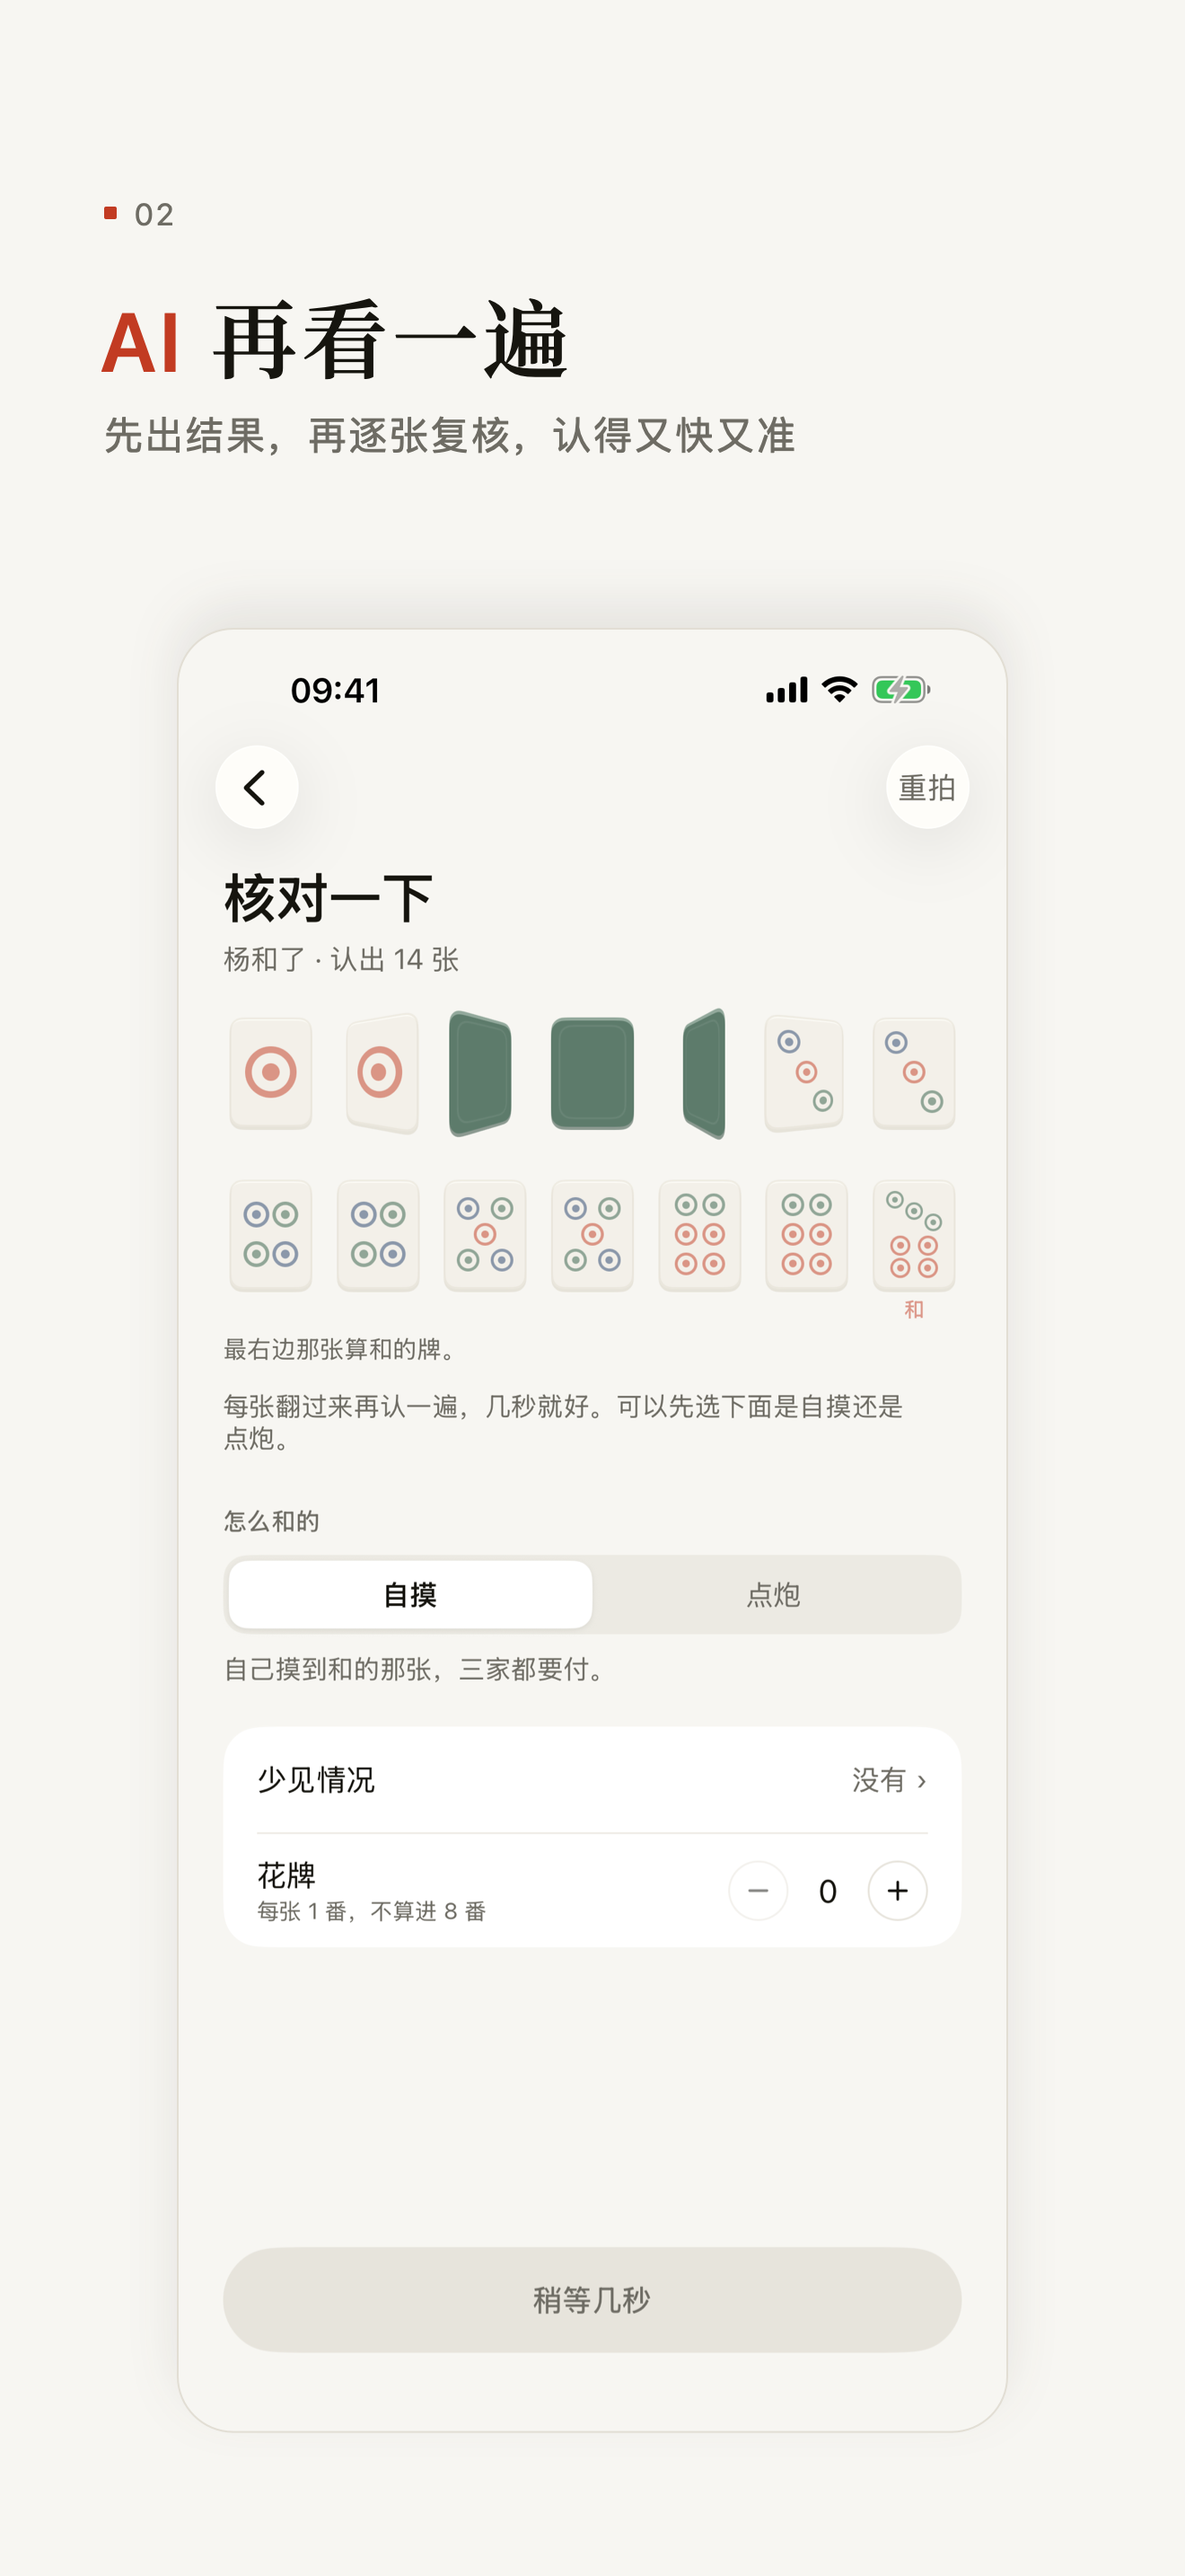
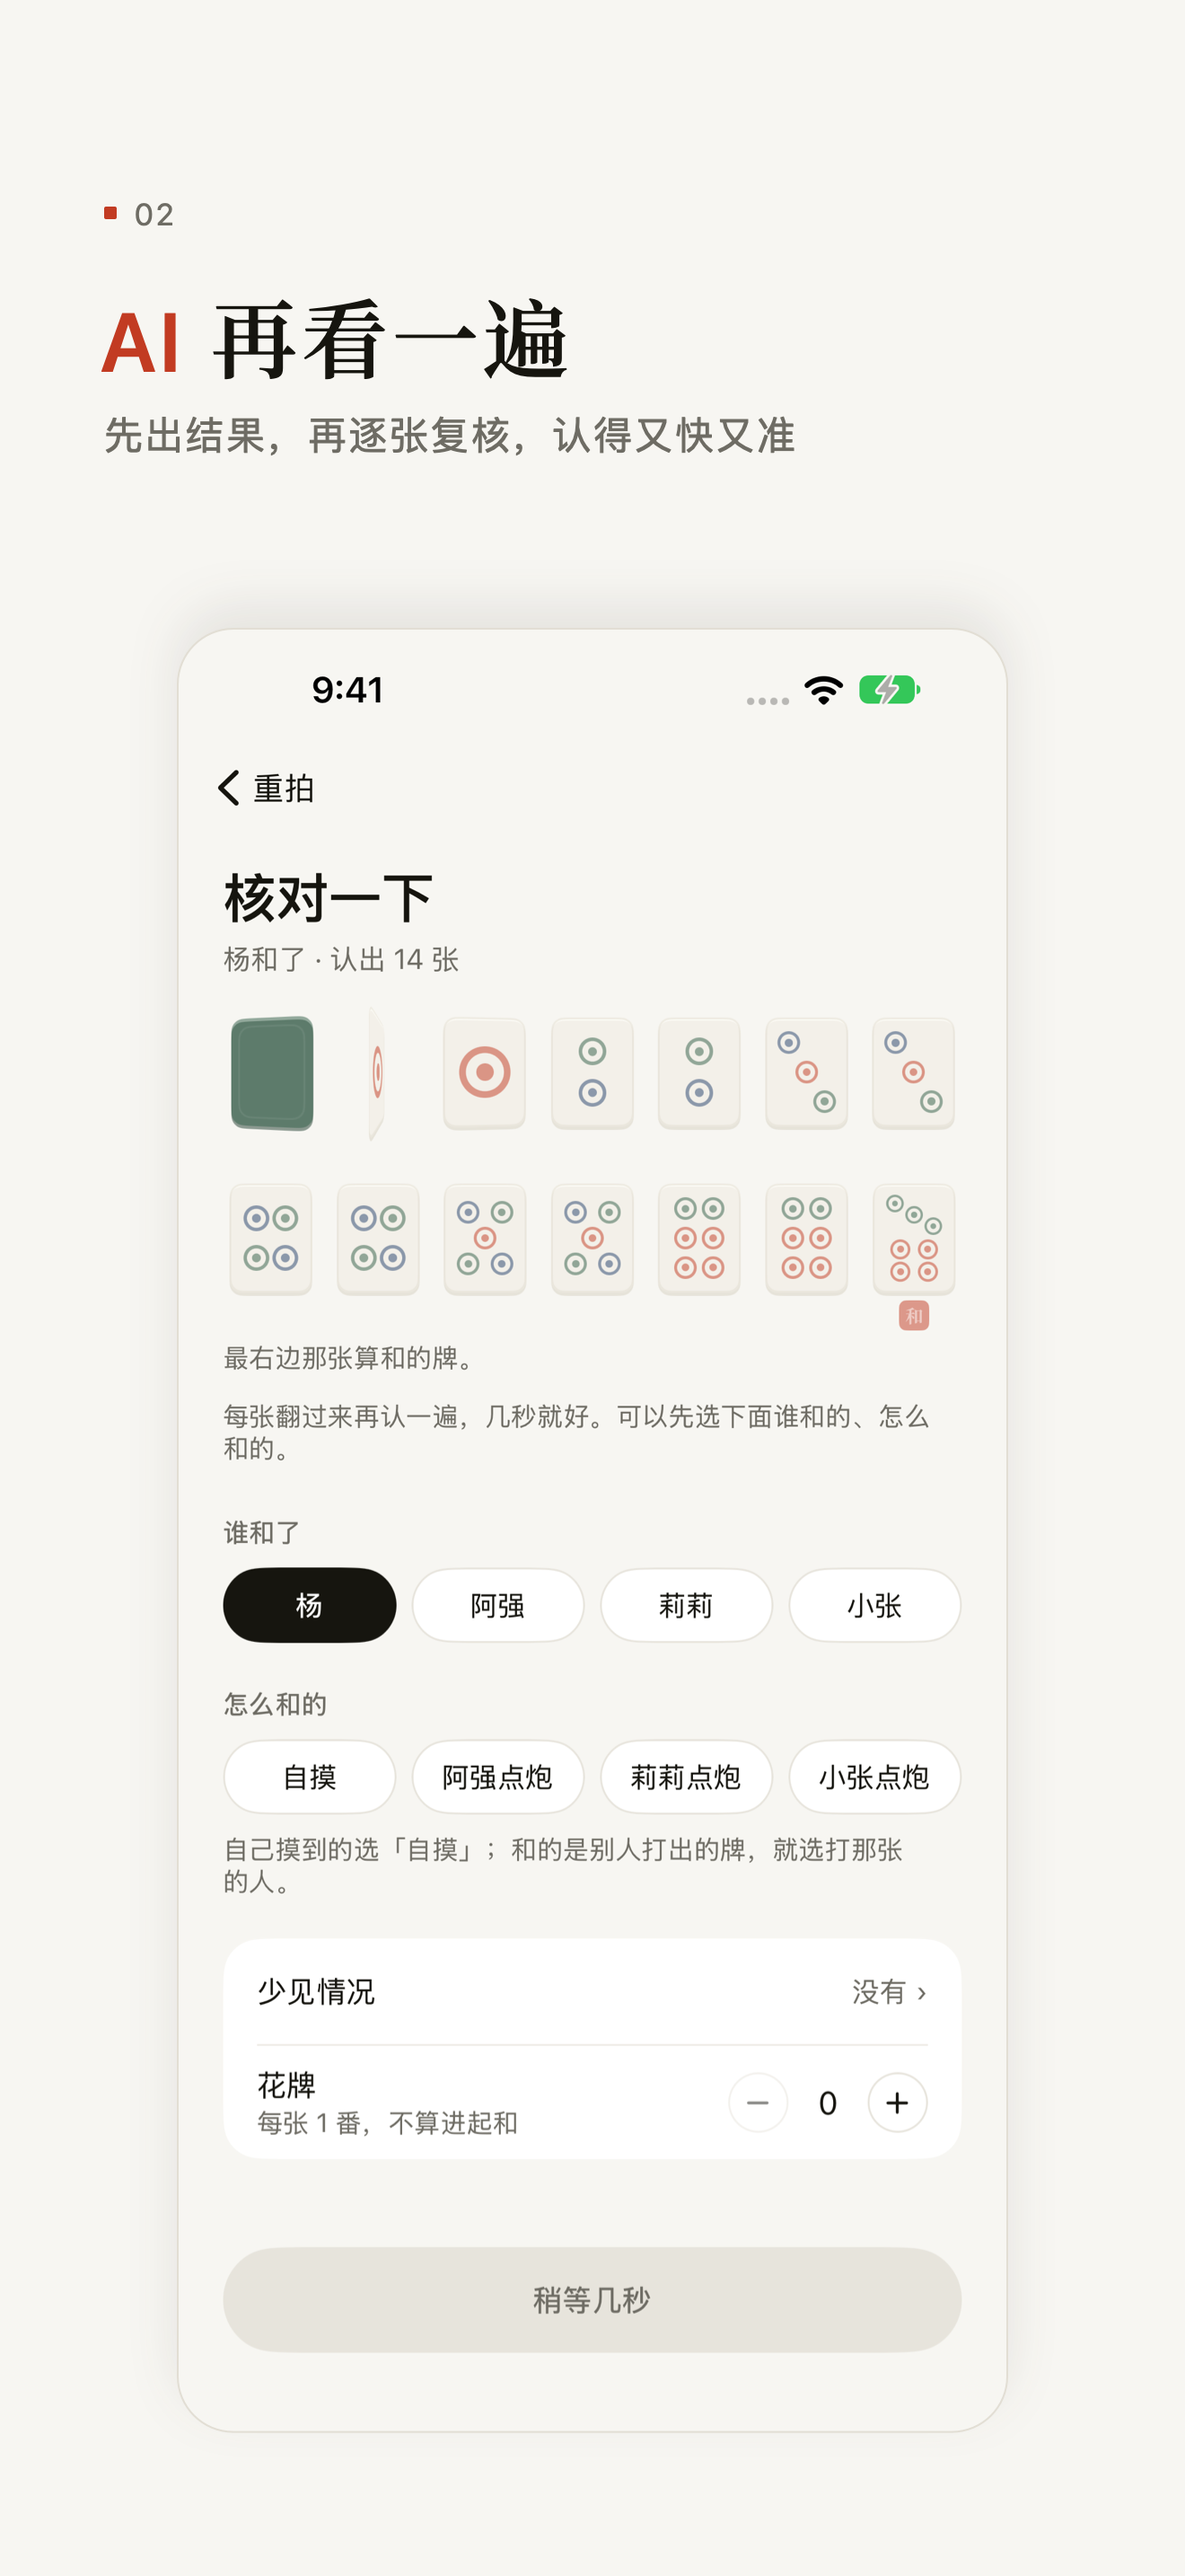
1.0.3（build 5）：新截图、空首页也能填邀请码、新版说明 (#34)
* 界面第一批：不替人选谁和了和自摸，核对页能看照片，邀请码提示挪到核对页，删除报错不用朱红

- 拍照页四个名字不再默认亮庄家；核对页加「谁和了」一排，拍照页点过的亮着、可改
- 「怎么和的」改成一排：自摸 / 某某点炮，都不预选；没选时底部按钮写原因
- 核对页标题右边放照片小图，点开全屏可放大拖动
- 拍照页不再提邀请码；离线认牌这手动手改过、牌对了以后，核对页提一行
- 删掉这一局、填码出错、改分填错改用墨色
- docs/user-flow.md 跟着改

Claude-Session: https://claude.ai/code/session_01Sm2sfkRi3hnSogq4ZtLyWH

* 界面第二批：「我」和第一局的庄分开、首页链接收进「更多」、结算写钱、老用户收起说明、字号调大、触感、和印章

- 牌局加 me（旧存档按第一个人），开局页第一行是你，另点第一局谁坐庄；牌桌图和首页历史按 me 显示
- 首页三行灰链接收进右上「更多」，历史行写名字加输赢
- 结算页名次大字写钱，1 分不是 1 元时旁边写分
- 记过 3 手和牌后收起核对页、牌桌、首页的教学说明句
- 小字 12/13 号调到 13/14 号，教人做事的字不再用最淡的灰
- 快门、牌落下、记下、撤销加触感；和的那张用朱红小印「和」
- 结果页顶行改成墨色、可点回核对页改；撤销条留 8 秒
- docs/user-flow.md 跟着改

Claude-Session: https://claude.ai/code/session_01Sm2sfkRi3hnSogq4ZtLyWH

* 1.0.3（build 5）：空首页也有「更多」（能找到填邀请码），支持页和送审说明改成新位置，写好新版说明

Claude-Session: https://claude.ai/code/session_01Sm2sfkRi3hnSogq4ZtLyWH

* 1.0.3 产品页截图重拍（6.9 寸，6 张）

---------

diff --git a/app/MajiangApp/Screens/HomeView.swift b/app/MajiangApp/Screens/HomeView.swift
@@ -14,7 +14,7 @@ struct HomeView: View {
     var body: some View {
         Group {
             if isEmpty {
-                EmptyHome(openGuide: { showGuide = true }, openSettings: { showSettings = true },
+                EmptyHome(more: moreMenu, openGuide: { showGuide = true }, openSettings: { showSettings = true },
                           openBackup: { showBackup = true }, start: { model.path.append(.newGame) })
             } else {
                 list
@@ -105,6 +105,7 @@ struct HomeView: View {
     }
 
     /// 右上角的「更多」：番怎么算、备份、邀请码。跟牌桌页右上的「更多」一样是灰字。
+    /// 第一次打开的空首页也有，审核员和新用户一打开就能找到填邀请码的地方。
     private var moreMenu: some View {
         Menu {
             Button("番怎么算") { showGuide = true }
@@ -190,7 +191,9 @@ private struct HistoryRow: View {
 }
 
 /// 第一次打开、还没有任何牌局时的首页：一句话加三步，说清这个 App 是干什么的。
-private struct EmptyHome: View {
+private struct EmptyHome<More: View>: View {
+    /// 右上角的「更多」菜单（跟有牌局时的首页同一个）。
+    var more: More
     var openGuide: () -> Void
     var openSettings: () -> Void
     var openBackup: () -> Void
@@ -203,7 +206,11 @@ private struct EmptyHome: View {
             ScrollView {
                 // 品牌标在顶上；标题和步骤作为一块往下放，剩下的空白上 : 下 ≈ 5 : 3，两段都至少 32
                 FiveThreeLayout(height: geo.size.height - topInset) {
-                    brand
+                    HStack(alignment: .center) {
+                        brand
+                        Spacer()
+                        more
+                    }
                     VStack(alignment: .leading, spacing: 0) {
                         headline
                         steps.padding(.top, 40)

diff --git a/server/src/support.js b/server/src/support.js
@@ -31,7 +31,7 @@ export const SUPPORT_HTML = `<!doctype html>
 <p>首页点「开一局」，填四个人的名字。有人和了就点「有人和了」，对着牌拍一张，确认牌面后就出番数和这一局谁付多少。打完点「结算」，看最少几笔转账就能结清。</p>
 
 <h2>AI 认牌要邀请码吗</h2>
-<p>AI 认牌现在是邀请制，填了邀请码才用。没有邀请码也能正常用：手机上的离线认牌照样能认，认不准的牌点一下就能改，也可以点「手动输入」自己选牌。</p>
+<p>AI 认牌现在是邀请制，在首页右上角「更多」里点「填邀请码，开启 AI 认牌」。没有邀请码也能正常用：手机上的离线认牌照样能认，认不准的牌点一下就能改，也可以点「手动输入」自己选牌。</p>
 
 <h2>认错了怎么办</h2>
 <p>确认页上点那张牌，换成对的就行。看不清的牌会给两个候选，标出哪张能和。</p>
@@ -40,7 +40,7 @@ export const SUPPORT_HTML = `<!doctype html>
 <p>在牌局里点那一局就能改，后面每一局的分数会跟着重算。</p>
 
 <h2>换手机</h2>
-<p>打开 iCloud 同步的话，换手机后用同一个 Apple ID 登录就会回来。也可以在首页「备份与换手机」导出文件，在新手机上导入。</p>
+<p>打开 iCloud 同步的话，换手机后用同一个 Apple ID 登录就会回来。也可以在首页右上角「更多」里点「备份与换手机」导出文件，在新手机上导入。</p>
 
 <h2>隐私</h2>
 <p>不用注册、没有广告。详见<a href="/privacy">隐私说明</a>。</p>

diff --git a/docs/app-store.md b/docs/app-store.md
@@ -2,6 +2,8 @@
 
 ## 现在的状态（2026-11-01）
 
+- **1.0.3（build 5）**（2026-11-04 准备）：界面两批改动（PR #32、#33），重拍了产品页截图。见下面「1.0.3」一节。
+
 - **App Store 1.0（build 2）已上架**：2026-10-31 20:49 UTC 提交，2026-11-01 审核通过，自动上架。build 2 带端侧认牌模型和填码页。
 - **上架地区**：全部 175 个国家和地区，**含中国大陆**（10-31 23:48 UTC 加上的）。价格免费。
 - **TestFlight** 公开链接 https://testflight.apple.com/join/fTaXVapc 继续可用。
@@ -65,7 +67,7 @@
 
 **给审核看的说明**（App Review notes）：原文中英文各一份在 App Store Connect 里，大意是：
 
-> 不需要登录。AI 认牌是邀请制：首页底部「有邀请码？开启 AI 认牌」或拍照页下方填入审核专用邀请码即可开启。没有邀请码也能完整使用：手机上的离线认牌照样能认，认不准的点一下改，也可以「手动输入」选牌。打开后点「开一局」，填四个名字开始；点「有人和了」拍一张麻将牌的照片即可体验识别和算番。
+> 不需要登录。AI 认牌是邀请制：首页右上角「更多」→「填邀请码，开启 AI 认牌」，填入审核专用邀请码即可开启（1.0.3 起；之前是首页底部或拍照页下方）。没有邀请码也能完整使用：手机上的离线认牌照样能认，认不准的点一下改，也可以「手动输入」选牌。打开后点「开一局」，填四个名字开始；点「有人和了」拍一张麻将牌的照片即可体验识别和算番。
 
 审核专用码：每天 200 次、最多 10 台手机，上架后停用（见上面「上架以后要做的」）。文案里写「邀请制」，不写「测试」。
 
@@ -100,3 +102,17 @@
 > 更新了商店名称和介绍。
 
 定稿见 [Claude Doc](https://claude.ai/artifact/C1dkxbPobMAHYmu67Ktt8Z)（Yang 11-03 确认）。
+
+## 1.0.3
+
+界面改了两批（PR #32、#33），产品页截图重拍（`docs/assets/app-store/`）。名称、副标题、关键词、描述、推广文本都不变。给审核看的说明里，填邀请码的位置改成「首页右上角『更多』」（拍照页不再有入口）。
+
+**此版本新增内容**
+
+> 这一版主要改了界面，记账更不容易出错：
+> · 拍完照不再默认「庄家自摸」，谁和的、自摸还是谁点的炮都由你点
+> · 核对牌面时可以点开照片放大对照
+> · 开局时第一行是你自己，第一局谁坐庄另外选
+> · 结算页直接写钱，字也大了一号
+> · 首页更清爽：番怎么算、备份、邀请码都收进右上角「更多」
+
